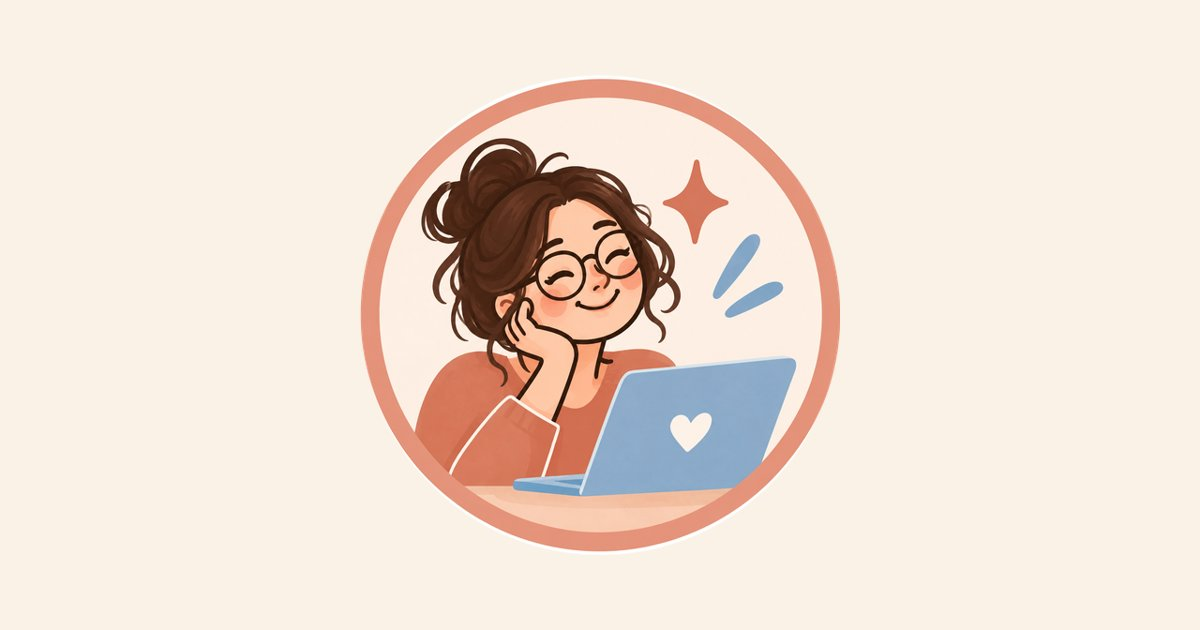
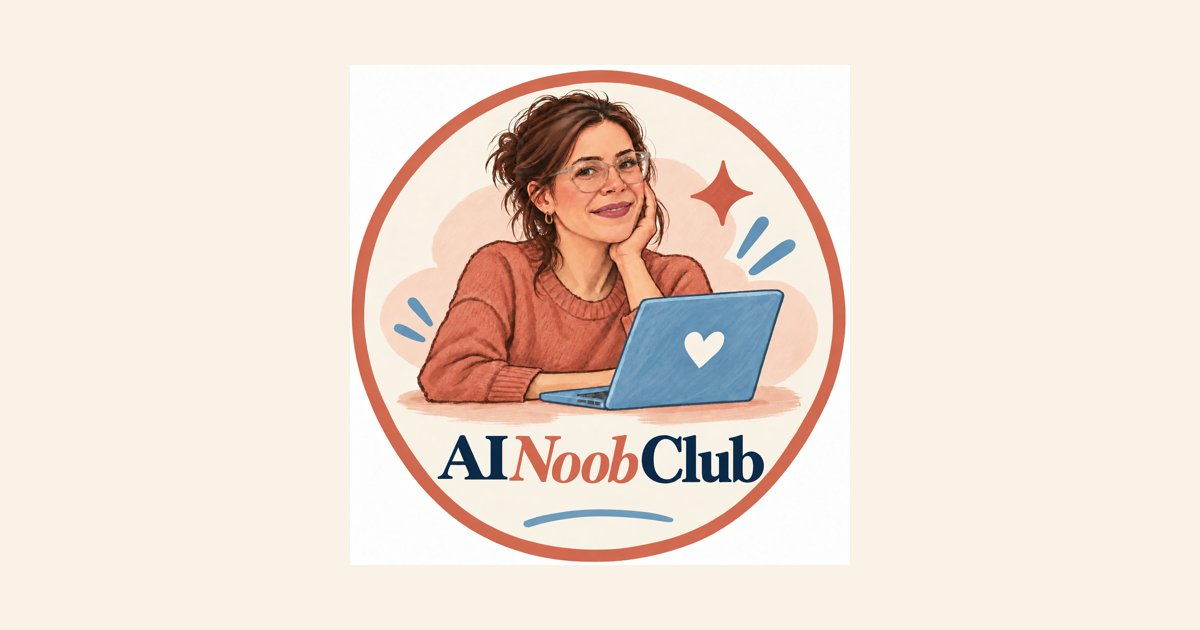
Changes

Changed region(s): [[0.2775, 0.0905, 0.7092, 0.9048]]

diff --git a/src/components/noob/NoobChrome.tsx b/src/components/noob/NoobChrome.tsx
@@ -4,7 +4,7 @@ import { Menu, X } from "lucide-react";
 import { useLanguage } from "@/lib/i18n";
 import { noobContent } from "@/lib/ainoob-content";
 import { noobClub } from "@/config/noobClub";
-import badgeAsset from "@/assets/ai-noob-club-badge.webp.asset.json";
+import badgeAsset from "@/assets/ai-noob-club-badge-v2.webp.asset.json";
 
 export const btnPrimary =
   "inline-flex h-12 items-center justify-center whitespace-nowrap rounded-full bg-primary px-6 text-sm font-semibold text-primary-foreground shadow-sm transition-opacity hover:opacity-90 focus-visible:outline-none focus-visible:ring-2 focus-visible:ring-ring focus-visible:ring-offset-2";

diff --git a/src/routes/ai-noob-club-anmeldung.tsx b/src/routes/ai-noob-club-anmeldung.tsx
@@ -1,7 +1,7 @@
 import { createFileRoute, Link } from "@tanstack/react-router";
 import { useState } from "react";
 import { useLanguage } from "@/lib/i18n";
-import badgeAsset from "@/assets/ai-noob-club-badge.webp.asset.json";
+import badgeAsset from "@/assets/ai-noob-club-badge-v2.webp.asset.json";
 
 export const Route = createFileRoute("/ai-noob-club-anmeldung")({
   component: SignupPage,
